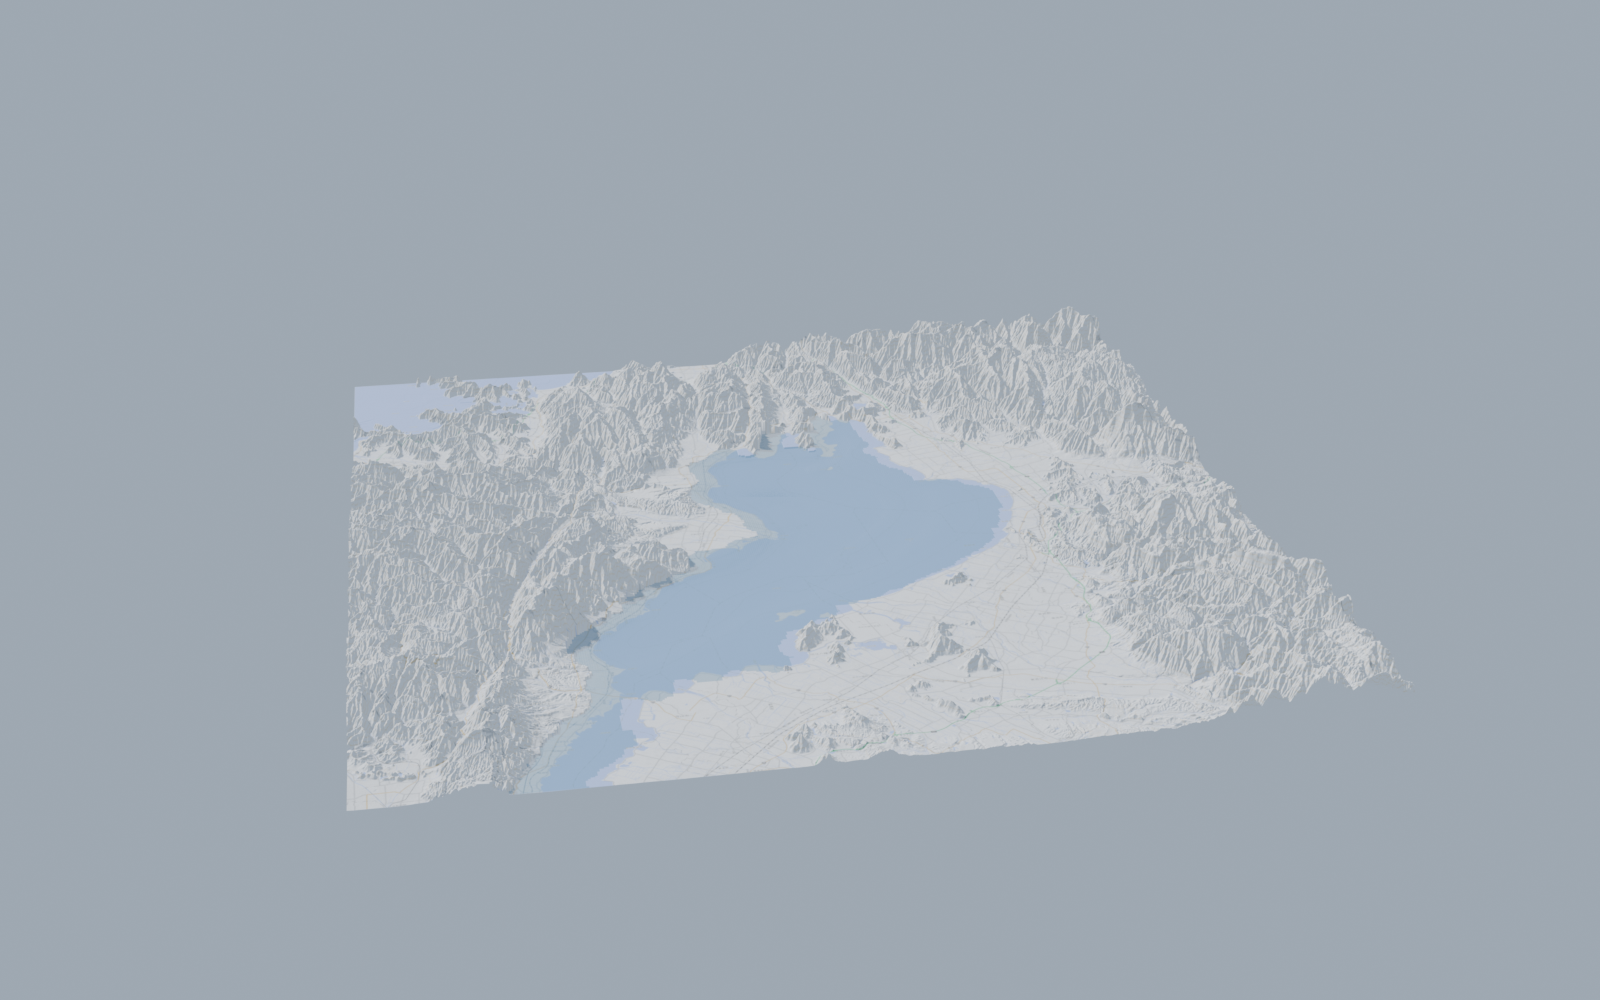
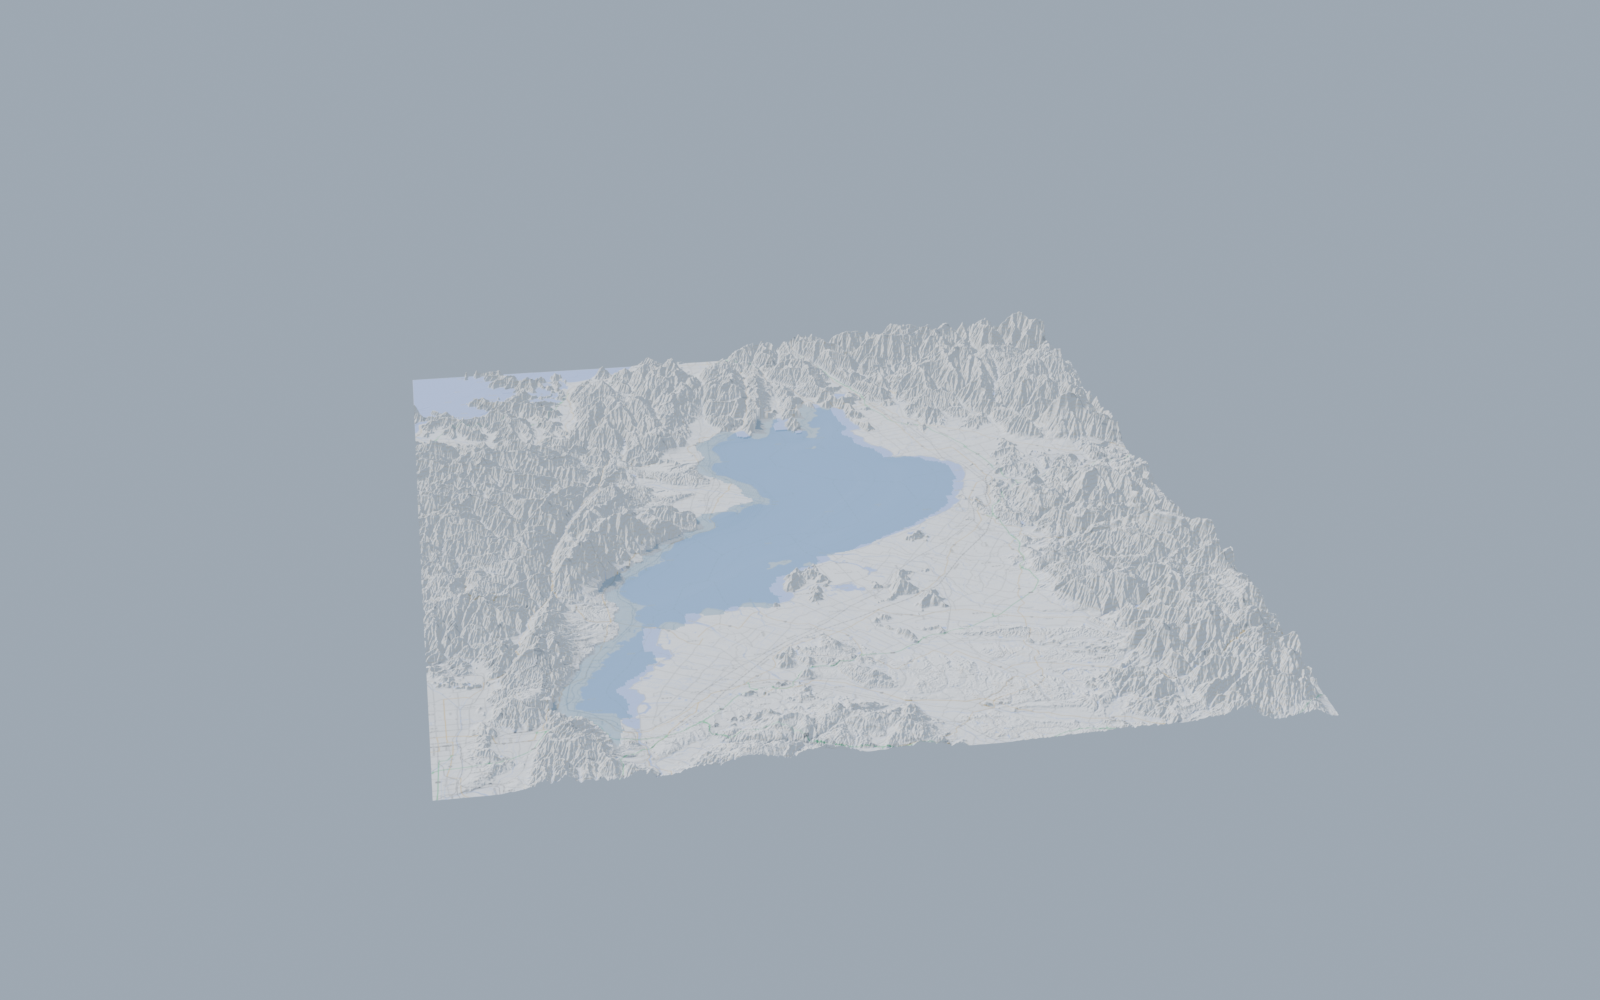
vault backup: 2026-08-30 12:32:04

Changed region(s): [[0.2188, 0.31, 0.875, 0.806], [0.5938, 0.651, 0.625, 0.682]]

diff --git a/琵琶湖_湖底図と可視化まとめ.md b/琵琶湖_湖底図と可視化まとめ.md
@@ -310,15 +310,16 @@ make_convection.py → .npz → npz_to_vtp.py (pvpython) → .vtp/.pvd
 
 | ファイル | stride | ve | 頂点 | サイズ | 用途 |
 |---|---:|---:|---:|---:|---|
-| `biwa_terrain.usdc` | 4 | 3 | 111万 | 22 MB | 軽量・確認用 |
-| **`biwa_terrain_mid.usdc`** | **2** | **3** | **446万** | **98 MB** | **推奨** |
-| `biwa_terrain_hi.usdc` | 1 | 5 | 1,783万 | 392 MB | 最高解像度（重い） |
+| `biwa_terrain.usdc` | 4 | 3 | 131万 | 28 MB | 軽量・確認用 |
+| **`biwa_terrain_mid.usdc`** | **2** | **3** | **524万** | **114 MB** | **推奨** |
+| `biwa_terrain_hi.usdc` | 1 | 3 | 2,097万 | 456 MB | 最高解像度（重い） |
+| `biwa_terrain_mid_deep.usdc` | 2 | 3 | 524万 | 114 MB | **湖内だけ水深30倍** |
 
 - 陸は DEM そのまま、湖は **84.4m − 水深**。境界は湖岸線 mask で切り替わる
 - 半透明の湖面（不透明度0.55）を**別プリム** `/Biwa/WaterSurface` で持つ。
   **4隅すべてが湖内の四角形だけ**を面にしている（§7 の「湖外まで描かれる」対策）
-- 水平 東西63.9km × 南北67.8km、標高 −20〜1376m
-- **`terrain/map.png`（6.7MB）は USD と同じフォルダに必須**
+- 水平 東西63.9km × 南北79.9km、標高 −20〜1376m
+- **`terrain/map.png`（8.5MB）は USD と同じフォルダに必須**
 
 | スクリプト | 役割 |
 |---|---|
@@ -326,24 +327,45 @@ make_convection.py → .npz → npz_to_vtp.py (pvpython) → .vtp/.pvd
 | `make_terrain_usd.py` | DEM＋湖底 → 地形USD。`--stride` `--ve` `--no-water` `--water-alpha` |
 
 ```bash
-python make_terrain_usd.py --stride 2 --ve 3    # 推奨
+python make_terrain_usd.py --stride 2 --ve 3 --out biwa_terrain_mid.usdc
 ```
 
 > **【出典表示が義務】**「国土地理院タイルを加工して作成」を成果物に明記すること。
 
 **鉛直誇張は 2〜3 倍**（比較図 `biwa/fig_terrain_ve.png`）。4以上は針山になり、
-5は地形として破綻する。`biwa_terrain_hi.usdc` だけ ve=5 で作られており、
-**単体では不自然**。使うなら `--ve 3` で作り直すこと。
+5は地形として破綻する。**3本とも ve=3 に統一済み。**
 
-#### 既知の制約（2つ）
+#### 湖内だけ深くする `--lake-ve`
 
-1. **南湖の南端が切れている。** DEM の南限が 35.0301N、湖底図は 34.9595N まで
-   あるため、**湖セルの3.19%（1053/32990）が欠落**している。北湖の物理には
-   影響しないが、湖全体を描くと南端が直線で切れる。
-   `fetch_terrain.py` の `LAT0` を 34.94 に下げれば直る
-2. **粒子USDとは鉛直方向に重ならない。** 水平原点は同じだが、地形は湖面を
-   `84.4*ve` に、粒子は湖面を `0` に置く。しかも既定の ve が **3 と 200 で
-   66倍違う**。重ねるなら ve を揃えたうえで粒子を `+84.4*ve` 持ち上げる
+陸と同じ誇張だと**湖底104mは山1377mに対して小さすぎて平板に見える**。
+`--lake-ve` で水深だけ別倍率にできる（比較図 `biwa/fig_lake_ve.png`）。
+
+| `--lake-ve` | 湖底の z | 見え方 |
+|---:|---:|---|
+| 3（従来） | −59 | 平板 |
+| 10 | −788 | 窪みが分かる |
+| **30** | **−2869** | **明確な盆地。山と釣り合う** |
+
+湖岸（水深0）では倍率によらず `84.4*ve` なので陸と段差なく繋がる。
+指定しなければ従来と完全一致（後方互換）。
+
+> **表示専用の歪みである。** 陸と湖で鉛直スケールが違うので、この USD から
+> **傾斜・体積・断面を読んではいけない。** 数値用は `--ve 1 --lake-ve 1`。
+
+#### 直した不具合：南湖の南端が切れていた
+
+DEM の南限（`LAT0=35.05`）が湖岸線より内側にあり、**湖セルの3.19%
+（1053/32990）が欠落**していた。湖面メッシュの南端は湖岸線ではなく
+**DEM格子の縁**だった。`LAT0 = 34.94` に下げて再取得・再生成し、
+**現在は範囲外の湖セル 0**（南に4.2kmの余裕）。
+
+**教訓：湖の端が直線なら、湖岸線ではなく格子の縁を疑う。**
+
+#### 残る制約：粒子USDとは鉛直方向に重ならない
+
+水平原点は同じだが、地形は湖面を `84.4*ve` に、粒子は湖面を `0` に置く。
+しかも既定の ve が **3 と 200 で66倍違う**。重ねるなら ve を揃えたうえで
+粒子を `+84.4*ve` 持ち上げること。
 
 ---
 
